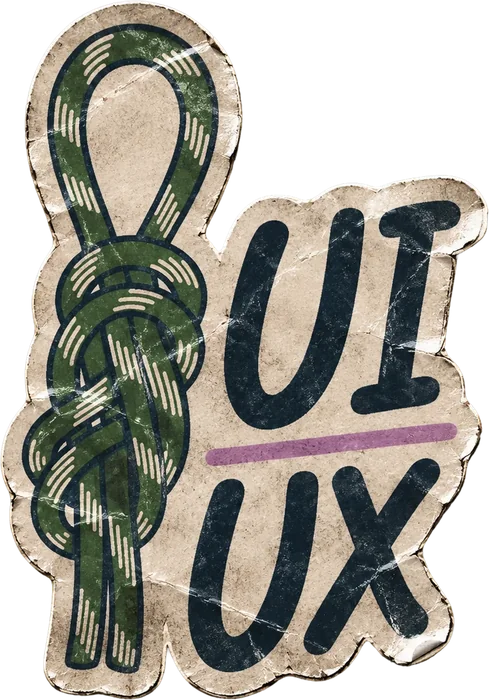
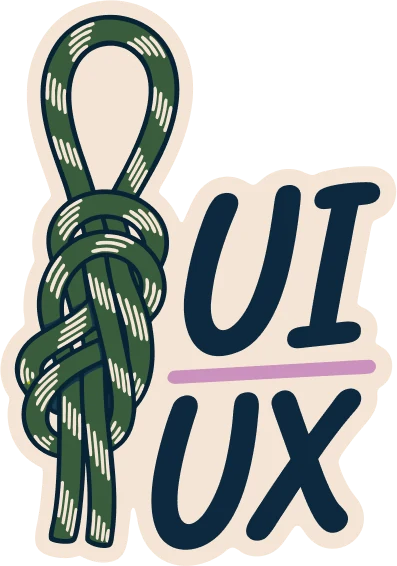
Hero : stickers réexportés, 57 % plus légers
Les sept webp passent de 508 à 215 Ko au total. Les recadrages ayant bougé au
réexport, les `aspect-ratio` des règles `.sticker-N` suivent les nouvelles
dimensions — vérifié fichier par fichier, les sept concordent au pixel. Sans
ça les dessins seraient étirés, la boîte CSS ne collant plus au détourage.

Les PNG sources (sans le filtre « abîmé ») rejoignent le .gitignore, même
partage que assets/beepz-system.png : les sources lourdes restent hors du
dépôt, seules les images servies sont versionnées.

Travail de Vincent.

diff --git a/css/style.css b/css/style.css
@@ -326,13 +326,13 @@ body {
 /* Sept stickers, positionnés en % du cadre 1472x599 (cf. CLAUDE.md, « Le hero »).
    L'aspect-ratio de chacun est celui de son webp détouré : les images sont
    rognées au plus près, donc la boîte CSS colle au dessin, sans marge morte. */
-.sticker-1 { left: 16.06%; top: 40.23%; width: 3.9%;  aspect-ratio: 461/700; --rot:  -6deg; }   /* Figma, centré sur le départ de .decor--path-left */
-.sticker-2 { left: 78.5%;  top: 32%;   width: 5.8%;  aspect-ratio: 19/20;   --rot: -11deg; }   /* HTML */
-.sticker-3 { left: 79%;    top: 63%;   width: 10.1%; aspect-ratio: 350/239; --rot:  10deg; }   /* Sass & Less */
-.sticker-4 { left: 28.5%;  top: 49.2%; width: 8.3%;  aspect-ratio: 700/423; --rot: -10deg; }   /* Adobe */
-.sticker-5 { left: 57.3%;  top: 55.7%; width: 5.9%;  aspect-ratio: 699/700; --rot:   8deg; }   /* Github */
-.sticker-6 { left: 14.47%; top: 64.58%; width: 5.85%; aspect-ratio: 700/607; --rot:  -6deg; }   /* Affinity */
-.sticker-7 { left: 41.5%;  top:  6%;   width: 5.2%;  aspect-ratio: 489/700; --rot:  -8deg; }   /* UI/UX */
+.sticker-1 { left: 16.06%; top: 40.23%; width: 3.9%;  aspect-ratio: 306/447; --rot:  -6deg; }   /* Figma, centré sur le départ de .decor--path-left */
+.sticker-2 { left: 78.5%;  top: 32%;   width: 5.8%;  aspect-ratio: 399/405;   --rot: -11deg; }   /* HTML */
+.sticker-3 { left: 79%;    top: 63%;   width: 10.1%; aspect-ratio: 513/349; --rot:  10deg; }   /* Sass & Less */
+.sticker-4 { left: 28.5%;  top: 49.2%; width: 8.3%;  aspect-ratio: 594/355; --rot: -10deg; }   /* Adobe */
+.sticker-5 { left: 57.3%;  top: 55.7%; width: 5.9%;  aspect-ratio: 390/387; --rot:   8deg; }   /* Github */
+.sticker-6 { left: 14.47%; top: 64.58%; width: 5.85%; aspect-ratio: 440/379; --rot:  -6deg; }   /* Affinity */
+.sticker-7 { left: 41.5%;  top:  6%;   width: 5.2%;  aspect-ratio: 397/566; --rot:  -8deg; }   /* UI/UX */
 
 /* ---------- Le tas de photos : à cheval sur le hero et À propos ----------
    Même façon de faire que les stickers du hero : tout est posé en pourcentage
